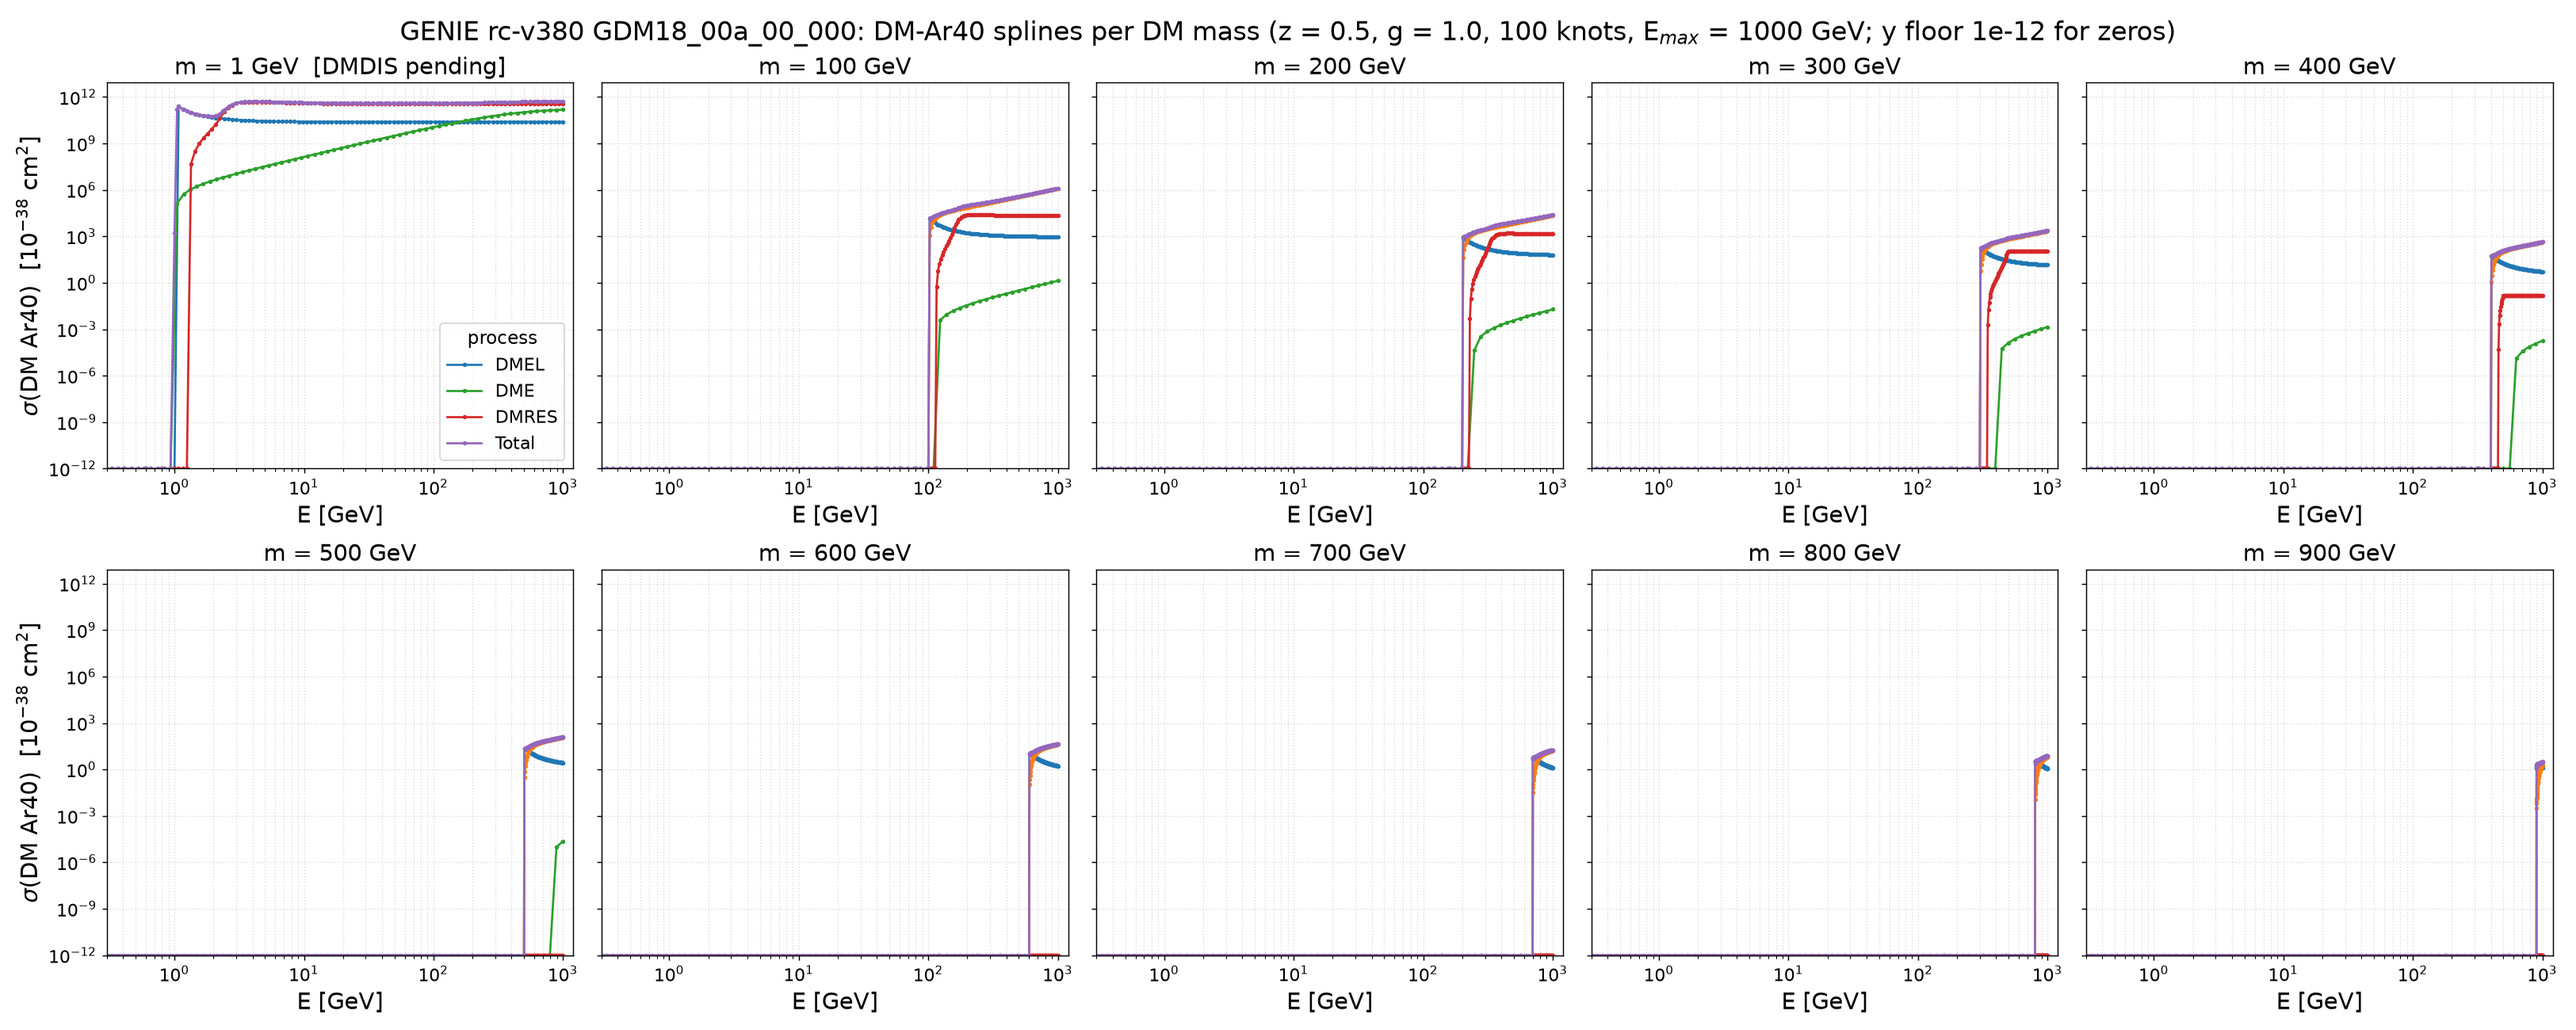
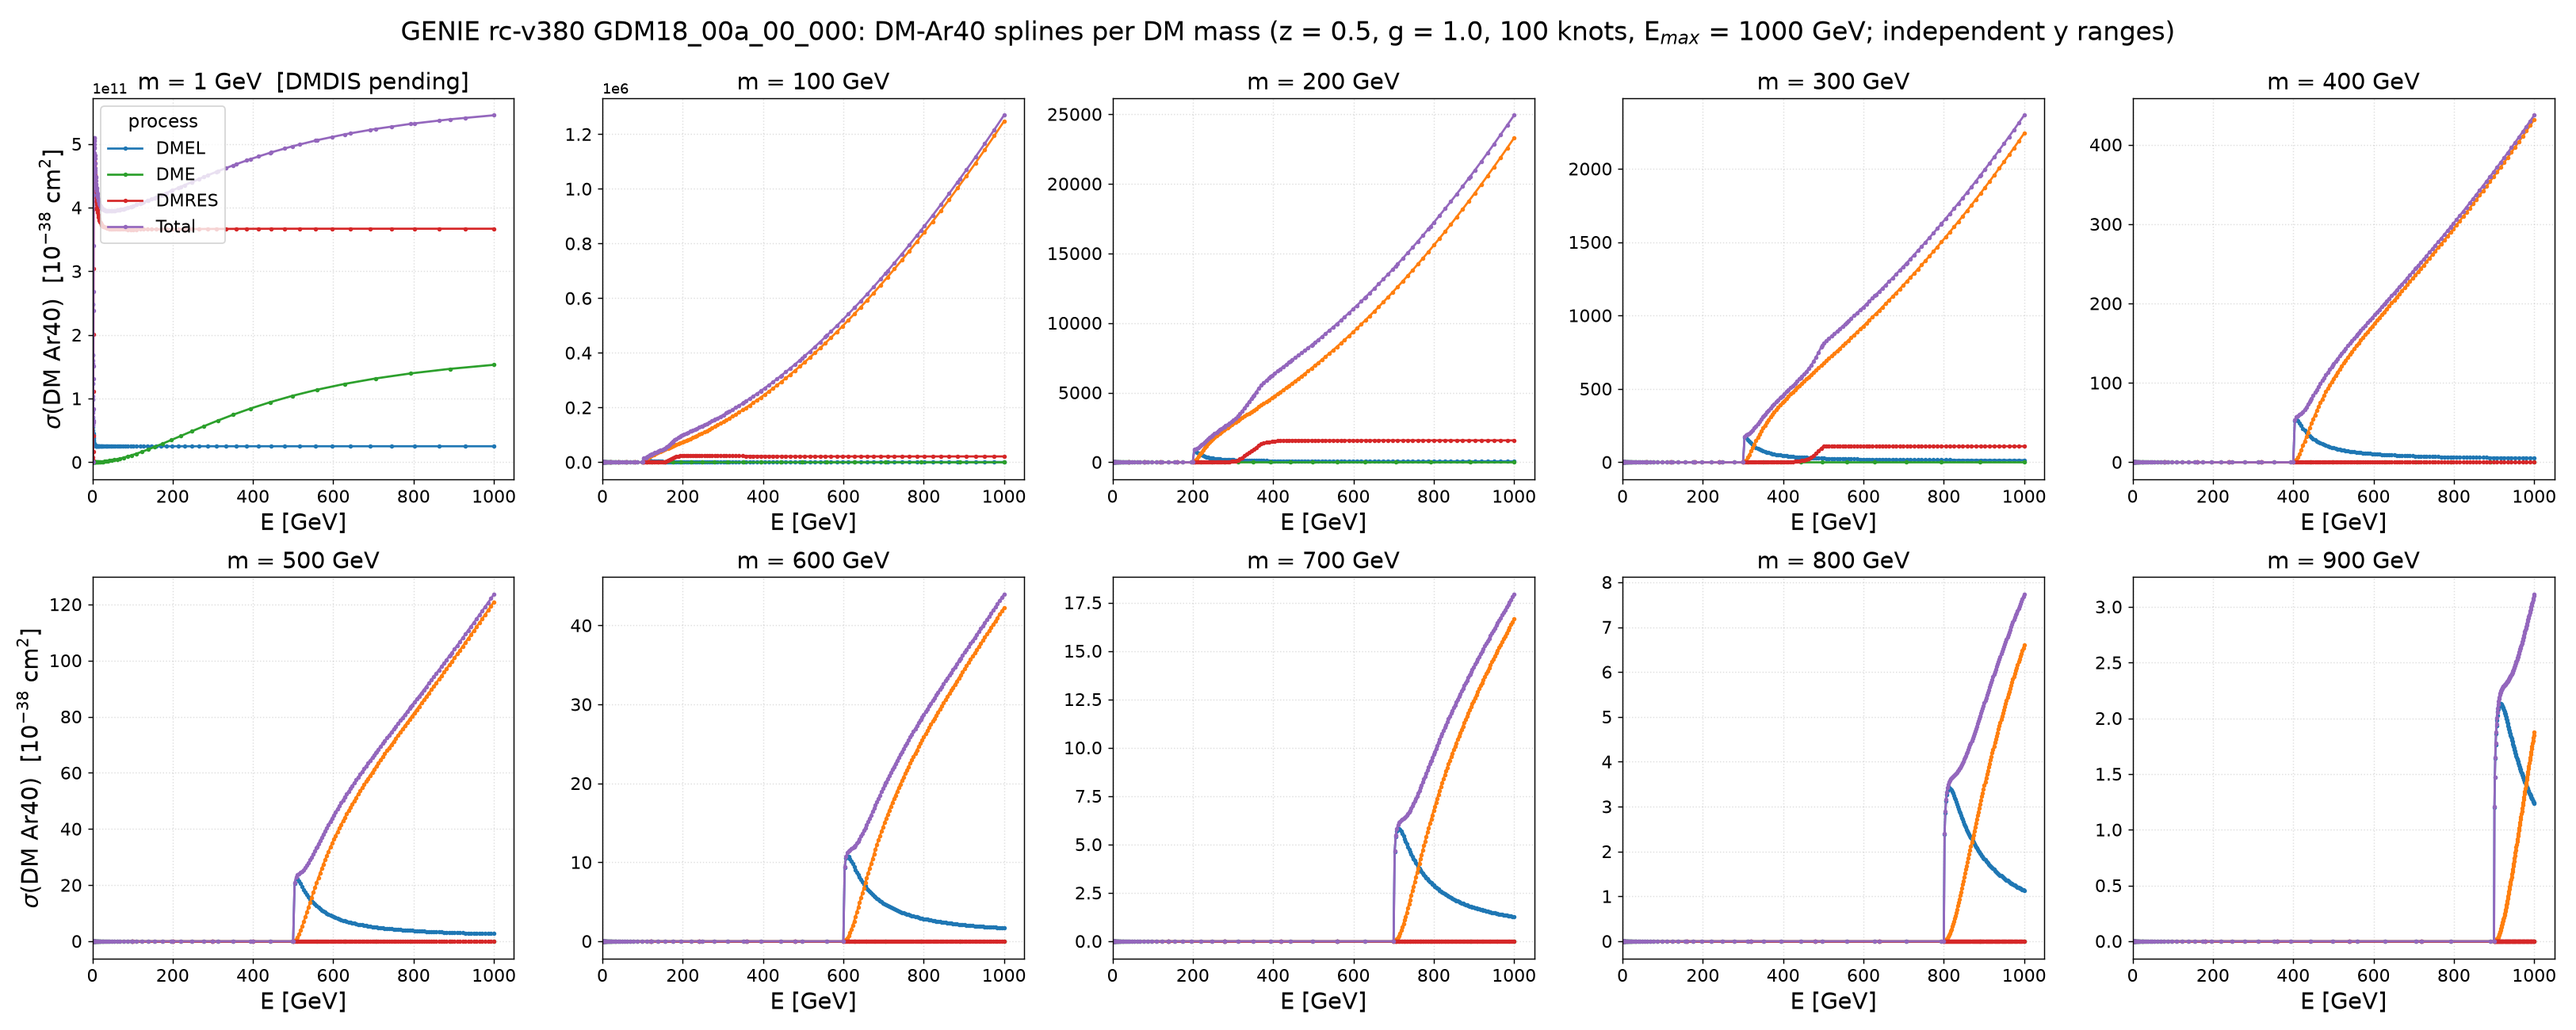
DM_test: linear-axis spline figures (default); log versions kept with _log suffix
plot_dm_splines.py: axes linear by default per the house style, --logx/--logy
opt into log scales (stem suffix _log); with linear y the panels use
independent y ranges. Regenerated both variants for dm_scan_e1000.

Claude-Session: https://claude.ai/code/session_016WqdpJxcKP6snVDvs3uuRg

diff --git a/results/template/plot_dm_splines.py b/results/template/plot_dm_splines.py
@@ -9,6 +9,10 @@ XML cross sections are in natural units (GeV^-2); they are shown in 1e-38 cm^2
 (1 GeV^-2 = 3.89379e-28 cm^2 = 3.89379e10 x 1e-38 cm^2).
 
     pixi run python results/template/plot_dm_splines.py --label dm_scan_e1000 --out-dir DM_test
+    pixi run python results/template/plot_dm_splines.py --label dm_scan_e1000 --out-dir DM_test --logx --logy
+
+Axes are linear by default (house style); --logx/--logy opt into log scales and add a
+`_log` suffix to the output stem. With linear y the panels do not share a y range.
 """
 from __future__ import annotations
 
@@ -85,15 +89,18 @@ def main() -> int:
     ap.add_argument("--tune", default="GDM18_00a_00_000")
     ap.add_argument("--target", default="Ar40")
     ap.add_argument("--out-dir", default="DM_test")
-    ap.add_argument("--stem", default=None, help="output stem (default dm_splines_<label>)")
+    ap.add_argument("--stem", default=None, help="output stem (default dm_splines_<label>[_log])")
+    ap.add_argument("--logx", action="store_true", help="log x axis (default linear)")
+    ap.add_argument("--logy", action="store_true", help="log y axis (default linear)")
     args = ap.parse_args()
+    anylog = args.logx or args.logy
     apply_style()
 
     data = collect(args.label, args.tune, args.target)
     if not data:
         sys.stderr.write("no gmkspl_dm runs found for that label/tune/target\n"); return 2
     masses = list(data)
-    stem = args.stem or f"dm_splines_{args.label}"
+    stem = args.stem or (f"dm_splines_{args.label}" + ("_log" if anylog else ""))
     out_dir = REPO / args.out_dir; out_dir.mkdir(parents=True, exist_ok=True)
 
     # per (mass, list): summed curve; per mass: total on the union grid
@@ -112,44 +119,46 @@ def main() -> int:
 
     # ---- Figure 1: one panel per mass -------------------------------------
     ncols = 5; nrows = int(np.ceil(len(masses) / ncols))
-    fig, axes = new_panels(ncols=ncols, nrows=nrows)
+    fig, axes = new_panels(ncols=ncols, nrows=nrows, sharey=args.logy)
     for ax, m in zip(axes, masses):
         for s in series:
             if s not in curves[m] or not len(curves[m][s][0]):
                 continue
             e, x = curves[m][s]
-            ax.plot(e, np.maximum(x, FLOOR), "-o", ms=2, color=colors[s],
+            ax.plot(e, np.maximum(x, FLOOR) if args.logy else x, "-o", ms=2, color=colors[s],
                     label=s + (" (all 0)" if x.max() <= 0 else ""))
         missing = [gl for gl in LISTS if gl not in curves[m]]
         title = f"m = {m:g} GeV" + (f"  [{','.join(missing)} pending]" if missing else "")
-        style_axis(ax, title=title, xlabel="E [GeV]", logx=True, logy=True)
-        ax.set_xlim(0.3, 1.2e3)
+        style_axis(ax, title=title, xlabel="E [GeV]", logx=args.logx, logy=args.logy)
+        ax.set_xlim(0.3 if args.logx else 0.0, 1.2e3 if args.logx else 1050.0)
     for ax in axes[len(masses):]:
         ax.set_visible(False)
     for r in range(nrows):
         axes[r * ncols].set_ylabel(r"$\sigma$(DM Ar40)  [$10^{-38}$ cm$^2$]", fontsize=FS_LABEL)
-    axes[0].legend(title="process", fontsize=FS_LEGEND, title_fontsize=FS_LEGEND_TITLE, loc="lower right")
+    axes[0].legend(title="process", fontsize=FS_LEGEND, title_fontsize=FS_LEGEND_TITLE,
+                   loc="lower right" if args.logy else "upper left")
+    floor_note = f"; y floor {FLOOR:g} for zeros" if args.logy else "; independent y ranges"
     fig.suptitle(f"GENIE rc-v380 {args.tune}: DM-{args.target} splines per DM mass "
-                 f"(z = 0.5, g = 1.0, 100 knots, E$_{{max}}$ = 1000 GeV; y floor {FLOOR:g} for zeros)",
+                 f"(z = 0.5, g = 1.0, 100 knots, E$_{{max}}$ = 1000 GeV{floor_note})",
                  fontsize=FS_SUPTITLE)
     fig.tight_layout()
     p1 = out_dir / f"{stem}_per_mass.png"; fig.savefig(p1, dpi=DPI); plt.close(fig)
 
     # ---- Figure 2: one panel per process, one line per mass ---------------
-    fig, axes = new_panels(ncols=len(series), nrows=1)
+    fig, axes = new_panels(ncols=len(series), nrows=1, sharey=args.logy)
     for ax, s in zip(axes, series):
         for i, m in enumerate(masses):
             if s not in curves[m] or not len(curves[m][s][0]):
                 continue
             e, x = curves[m][s]
-            ax.plot(e, np.maximum(x, FLOOR), "-o", ms=2, color=f"C{i % 10}", label=f"{m:g}")
-        style_axis(ax, title=s, xlabel="E [GeV]", logx=True, logy=True)
-        ax.set_xlim(0.3, 1.2e3)
+            ax.plot(e, np.maximum(x, FLOOR) if args.logy else x, "-o", ms=2, color=f"C{i % 10}", label=f"{m:g}")
+        style_axis(ax, title=s, xlabel="E [GeV]", logx=args.logx, logy=args.logy)
+        ax.set_xlim(0.3 if args.logx else 0.0, 1.2e3 if args.logx else 1050.0)
     axes[0].set_ylabel(r"$\sigma$(DM Ar40)  [$10^{-38}$ cm$^2$]", fontsize=FS_LABEL)
     axes[0].legend(title="m$_{DM}$ [GeV]", fontsize=FS_LEGEND, title_fontsize=FS_LEGEND_TITLE,
-                   loc="lower right", ncol=2)
+                   loc="lower right" if args.logy else "upper right", ncol=2)
     fig.suptitle(f"GENIE rc-v380 {args.tune}: DM-{args.target} cross section per process vs DM mass "
-                 f"(z = 0.5, g = 1.0; y floor {FLOOR:g} for zeros)", fontsize=FS_SUPTITLE)
+                 f"(z = 0.5, g = 1.0{floor_note})", fontsize=FS_SUPTITLE)
     fig.tight_layout()
     p2 = out_dir / f"{stem}_per_process.png"; fig.savefig(p2, dpi=DPI); plt.close(fig)
 

diff --git a/DM_test/DM_test.md b/DM_test/DM_test.md
@@ -354,8 +354,11 @@ m = 1 DMDIS job finishes:
 ```bash
 pixi run python results/template/plot_dm_splines.py --label dm_scan_e1000 --out-dir DM_test
 ```
-- `DM_test/dm_splines_dm_scan_e1000_per_mass.png` — one panel per mass, DMEL/DMDIS/DME/DMRES/Total
-- `DM_test/dm_splines_dm_scan_e1000_per_process.png` — one panel per process, one line per mass
+- `DM_test/dm_splines_dm_scan_e1000_per_mass.png` — one panel per mass, DMEL/DMDIS/DME/DMRES/Total,
+  **linear axes** (independent y ranges; requested 2026-09-09)
+- `DM_test/dm_splines_dm_scan_e1000_per_process.png` — one panel per process, one line per mass, linear axes
+- `DM_test/dm_splines_dm_scan_e1000_log_per_mass.png`, `…_log_per_process.png` — the same with
+  `--logx --logy` (shared log y, floor 10⁻¹² for zeros)
 - `DM_test/dm_splines_dm_scan_e1000.txt` — readout: threshold, σ_max, σ at 10/100/1000 GeV per (mass, process)
 
 What the numbers say (σ in 10⁻³⁸ cm², Ar40, z = 0.5, g = 1.0):
